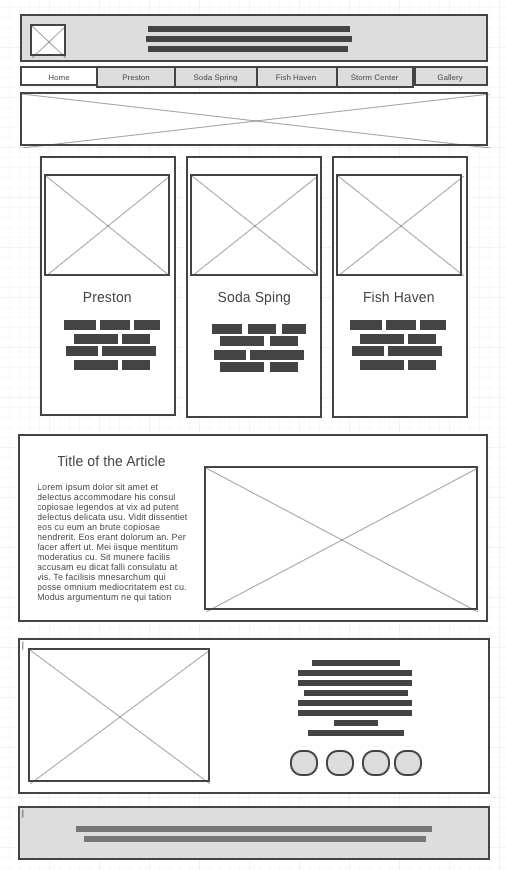
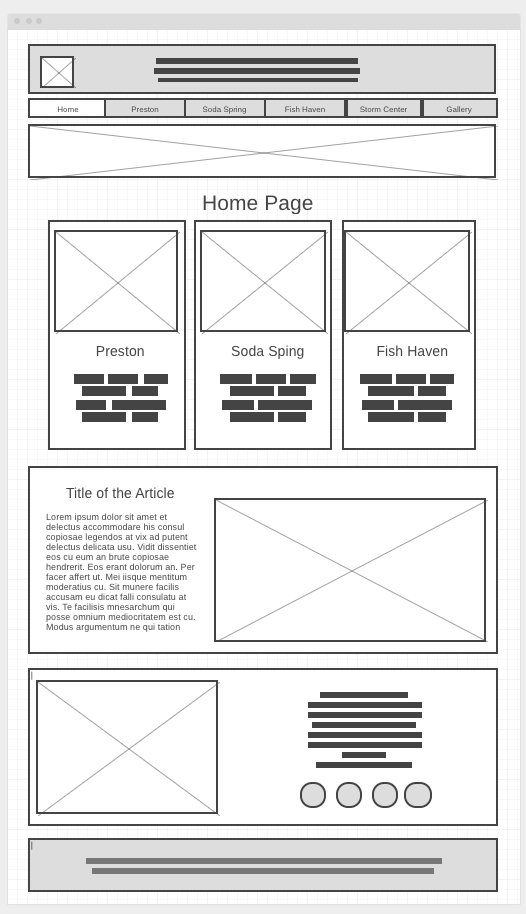
start of home

diff --git a/lesson9/index.html b/lesson9/index.html
@@ -36,50 +36,8 @@
             <li><a href="https://tetiana-vds.github.io/lesson7/gallery-7.html">Gallery </a> </li>
         </ul>
     </nav>
-    <main class="">
-        <section class="columns">
-            <div id="one">
-                <h3>Visual Hierarchy</h3>
-                <p>Folkways</p>
-                <p><a href="http://folkways.today/borsh/" class="site">folkways.today</a></p>
-                <img src="Img/VisualHierarchy.jpg" alt="Visual Hierarchy">
-                <p>The first thing that viewers see when visiting this site is
-                    the traditional Slavic dish called “Borsch”. The bright
-                    contrasting colors and large size of the picture immediately
-                    catches our attention. Then goes the header or the title of
-                    the page and the logo of the site. Last of all the visitor will
-                    see the explanation text in a small font and the menu bar.
-                </p>
-            </div>
-
-            <div id="two">
-                <h3> Repetition</h3>
-                <p>Cumorah Academy</p>
-                <p><a href="https://cumorahacademy.org/">cumorahacademy.org</a></p>
-                <img src="Img/Retetition1.jpg" alt="Repetition">
-                <p>Even though, the Cumorah Academy main page is very bright,
-                    colorful and functional it still looks very consistent. Proper repetitions
-                    of colors and fonts, as well as sizes, shades, shapes and navigation
-                    structure create the balanced picture and a sense of cohesive relationship
-                    between all the elements. The visitor can easily find whatever he is looking
-                    for and navigate the site.
-                </p>
-            </div>
-            <div id="three">
-                <h3>White Space</h3>
-                <p>WeCanSoft</p>
-                <p><a href="http://wecansoft.com.ua/">wecansoft.com.ua</a></p>
-                <img src="Img/whitespace.jpg" alt="White Space">
-                <p>The desktop of WeCanSoft Company site demonstrates the
-                    White Space Design Principle very well. The reason is not
-                    in the white colors usage rather than in abundance of space
-                    in-between and around all of the elements placed on the page.
-                    It makes the site to look very neat, readable, focused and creates
-                    visual hierarchy.
-                </p>
-            </div>
-
-        </section>
+    <main>
+          <div class="city"></div>
     </main>
 
     <footer>

diff --git a/lesson9/js/main.js b/lesson9/js/main.js
@@ -15,25 +15,42 @@ function toggleMenu() {
         document.getElementById("Saturday").style.display = "block";
     }
 
-    const imgOptions = {
-    threshold: 0,
-    rootMargin: "0px 0px 50px 0px"
-};
-if('IntersectionObserver' in window) {
-  const observer = new IntersectionObserver((items, observer) => {
-    items.forEach((item) => {
-      if(item.isIntersecting) {
-        loadImages(item.target);
-        observer.unobserve(item.target);
-      }
-    });
-  });
-  imagesToLoad.forEach((img) => {
-    observer.observe(img);
-  });
-} else {
-  imagesToLoad.forEach((img) => {
-    loadImages(img);
-  });
-}
- 
+const townDataURL = "https://byui-cit230.github.io/weather/data/towndata.json"
+const towns2get = [
+    "Preston",
+    "Fish Haven",
+    "Soda Springs"
+]
+const city = document.querySelector('.city');
+fetch(townDataURL)
+    .then((response) => {
+        return response.json()
+    })
+    .then((jsonData) => {
+      const towns = jsonData["towns"].filter(item => towns2get.includes(item.name));
+
+        towns.forEach(towns2get => {
+        let town = document.createElement('section');
+        let h2 = document.createElement('h2');
+        let p1 = document.createElement('p1');
+        let p2 = document.createElement('p2');
+        let p3 = document.createElement('p3');
+      let p4 = document.createElement('p4');
+     
+  
+        h2.innerHTML = `${towns2get.name}`;
+      p1.innerHTML = `Motto: ${towns2get.motto}`;
+      p2.innerHTML = `Year Founded: ${towns2get.yearFounded}`;
+        p3.innerHTML = `Population: ${towns2get.currentPopulation}`;
+        p4.innerHTML = `Average Rainfall: ${towns2get.averageRainfall}`;
+        
+  
+       city.append(town);
+        city.append(h2);
+        city.append(p1);
+        city.append(p2);
+       city.append(p3);
+        city.append(p4);
+  
+      });
+    })

diff --git a/lesson9/css/prophets.css b/lesson9/css/prophets.css
@@ -19,17 +19,23 @@ body {
  margin: auto; 
      
 }
+footer{
+    border-top: 1px solid;
+    padding-top: 10px;
 
+}
 footer,header {
-     width: 100%;
-     min-width: 330px;
+    width: 100%;
     border-top: 1px solid #555;
+    margin: 0 auto;
+    margin-bottom: 10px;
 }
  div {
      justify-content: center;
      margin: 0 auto;
  }
 h1 {
+    margin: 5px;
     border: 1px solid #ccc;
     padding: 15px;
     background-color: #fdf9f9f6;
@@ -45,7 +51,7 @@ h2,h1{
 }
 section main{
  display: grid;
- grid-template-columns: 1fr;
+ grid-template-columns: repeat(auto-fit, minmax(240px, 1fr));
  grid-template-rows: auto;
   grid-gap: 8px;
   justify-content: center;
@@ -56,7 +62,7 @@ section img {
     
 }
 section{
-    min-width: 230px;
+    min-width: 240px;
        border: 1px solid #333;
        background-color: rgb(178, 178, 209);
          padding: 1.25rem;
@@ -69,14 +75,14 @@ section{
     
          max-width: 80%;
        display: grid;
-       grid-template-columns: 1fr 1fr;
+       grid-template-columns: repeat(2, 1fr);
        grid-template-rows: auto ;
        grid-gap: 8px;
        
     }
      img {
          box-shadow: 0 0 30px 0;
-         width: 200px;
+         min-width: 200px;
          height: 320px;
      }
 section {
@@ -107,6 +113,7 @@ section {
         margin: 0 auto;
           width: 100%;
           justify-content: center;
+          margin-bottom:10px;
     }
     img {
         box-shadow: 0 0 30px 0;
@@ -116,7 +123,7 @@ section {
     .cards {
       
      display: grid;
-     grid-template-columns: repeat(4,1fr);
+     grid-template-columns: repeat(4, 1fr);
      grid-template-rows: auto;
       margin: 1.25rem auto;
         justify-content: center;

diff --git a/lesson9/css/small.css b/lesson9/css/small.css
@@ -313,3 +313,24 @@ display: flex;
      margin: 0 auto;
          text-align: center;
  }
+
+
+    .city {
+
+        display: grid;
+        grid-template-columns: repeat(3, 1fr);
+        grid-template-rows: auto;
+        margin: 1.25rem auto;
+        justify-content: center;
+        margin: auto;
+    }
+
+    section.city {
+        min-width: 330px;
+        border: 1px solid #333;
+        background-color: rgb(178, 178, 209);
+        padding: 1.25rem;
+        line-height: 2rem;
+    }
+
+   
